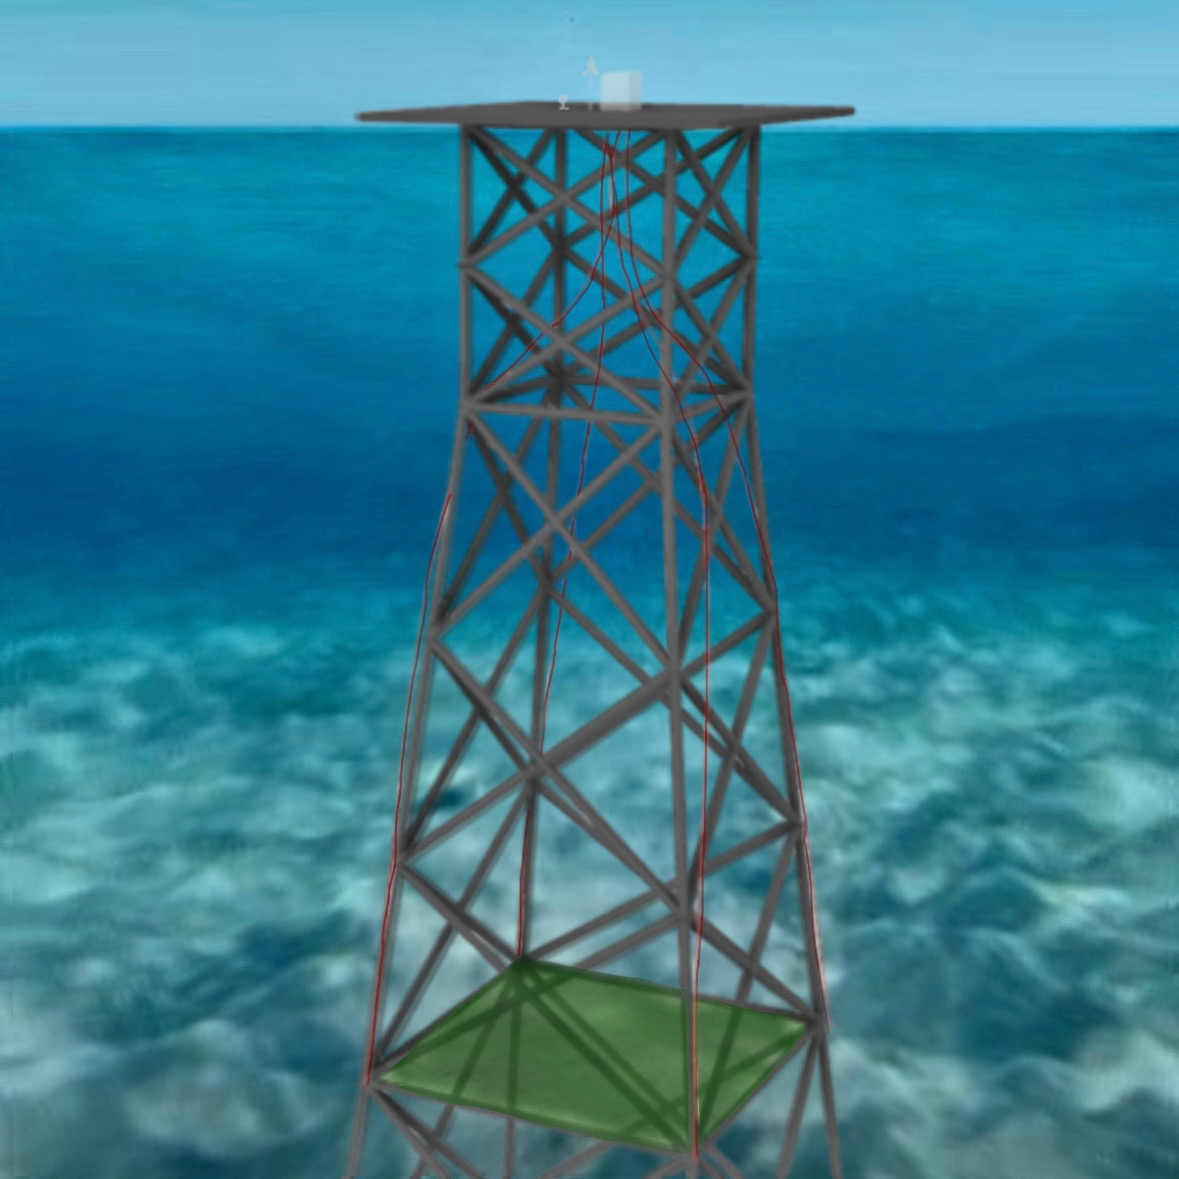
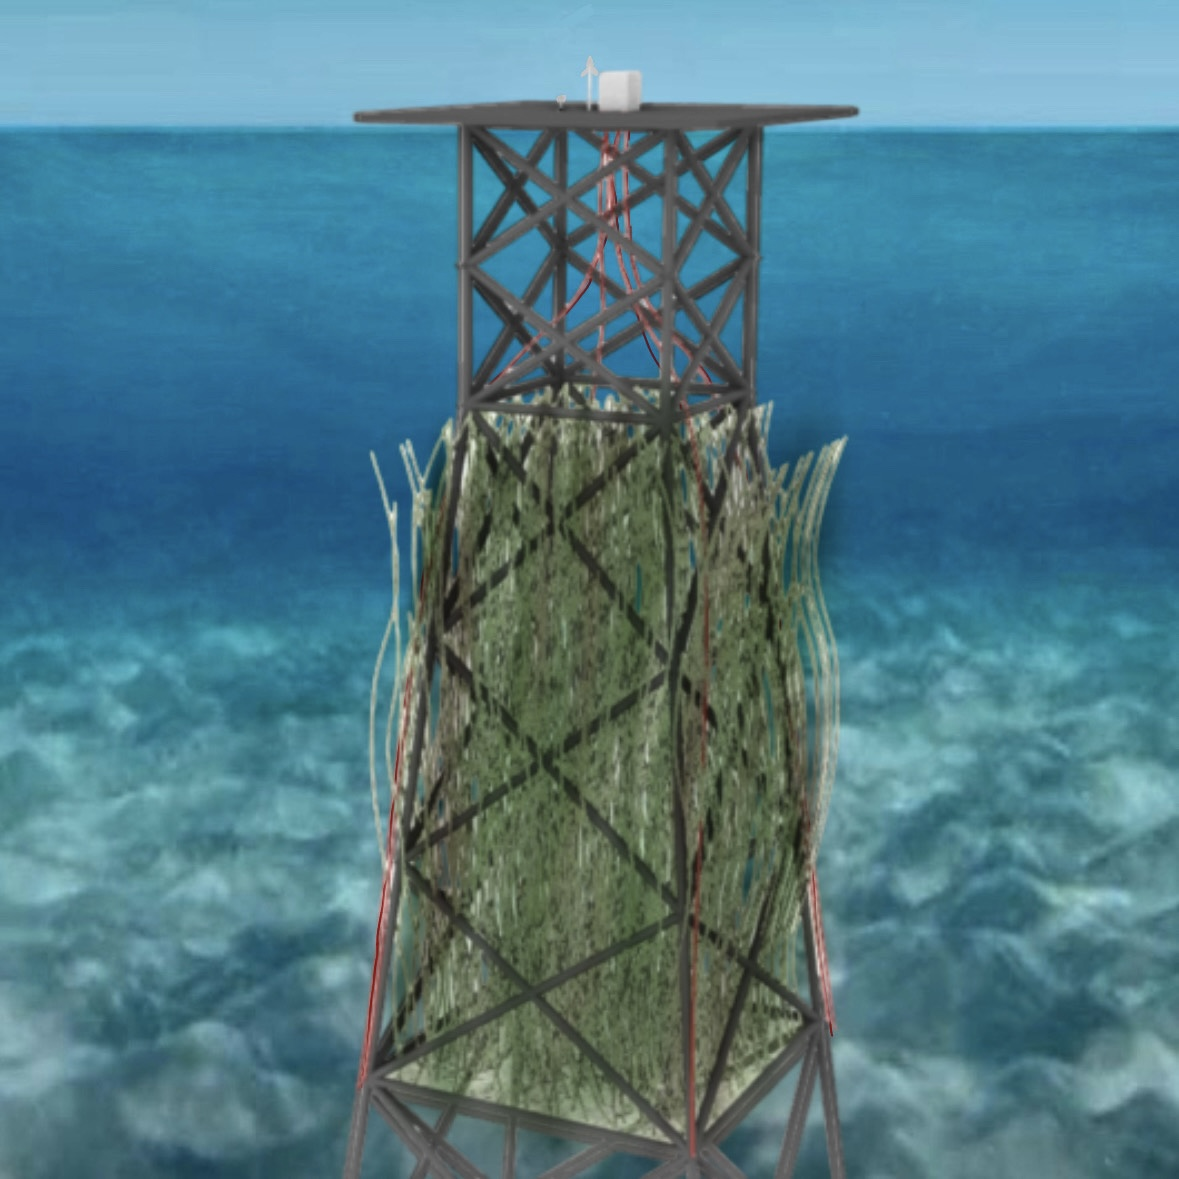
Update website images
Replit-Commit-Author: Agent
Replit-Commit-Session-Id: 1c803824-e9f0-483f-bd57-d8a85e7106d9
Replit-Commit-Screenshot-Url: https://storage.googleapis.com/screenshot-production-us-central1/565873f2-379f-48a6-9f60-7e77a488f4e4/027c4c14-5688-44cb-990a-f80d8e2a1ced.jpg

diff --git a/index.html b/index.html
@@ -45,7 +45,7 @@
                 </div>
                 <div class="home-image">
                     <div class="rig-container">
-                        <img src="assets/oil-rig-kelp-model.png" alt="Oil rig with kelp cultivation" class="rig-illustration">
+                        <img src="assets/home-image-new.jpeg" alt="Oil rig with kelp cultivation" class="rig-illustration">
                     </div>
                 </div>
             </div>
@@ -336,8 +336,8 @@
             <div class="team-info-section" style="margin-top: 3rem;">
                 <h3 style="text-align: center; margin-bottom: 2rem;">Team Photos</h3>
                 <div style="display: flex; flex-wrap: wrap; gap: 2rem; justify-content: center; max-width: 1200px; margin: 0 auto;">
-                    <img src="assets/team-photo1.jpeg" alt="Kelpiebloom Team Photo 1" style="width: 450px; height: auto; border-radius: 10px; box-shadow: 0 4px 10px rgba(0, 0, 0, 0.1);">
-                    <img src="assets/team-photo2.jpeg" alt="Kelpiebloom Team Photo 2" style="width: 450px; height: auto; border-radius: 10px; box-shadow: 0 4px 10px rgba(0, 0, 0, 0.1);">
+                    <img src="assets/team-photo1-new.jpeg" alt="Kelpiebloom Team Photo 1" style="width: 450px; height: auto; border-radius: 10px; box-shadow: 0 4px 10px rgba(0, 0, 0, 0.1);">
+                    <img src="assets/team-photo2-new.jpeg" alt="Kelpiebloom Team Photo 2" style="width: 450px; height: auto; border-radius: 10px; box-shadow: 0 4px 10px rgba(0, 0, 0, 0.1);">
                 </div>
             </div>
         </section>
